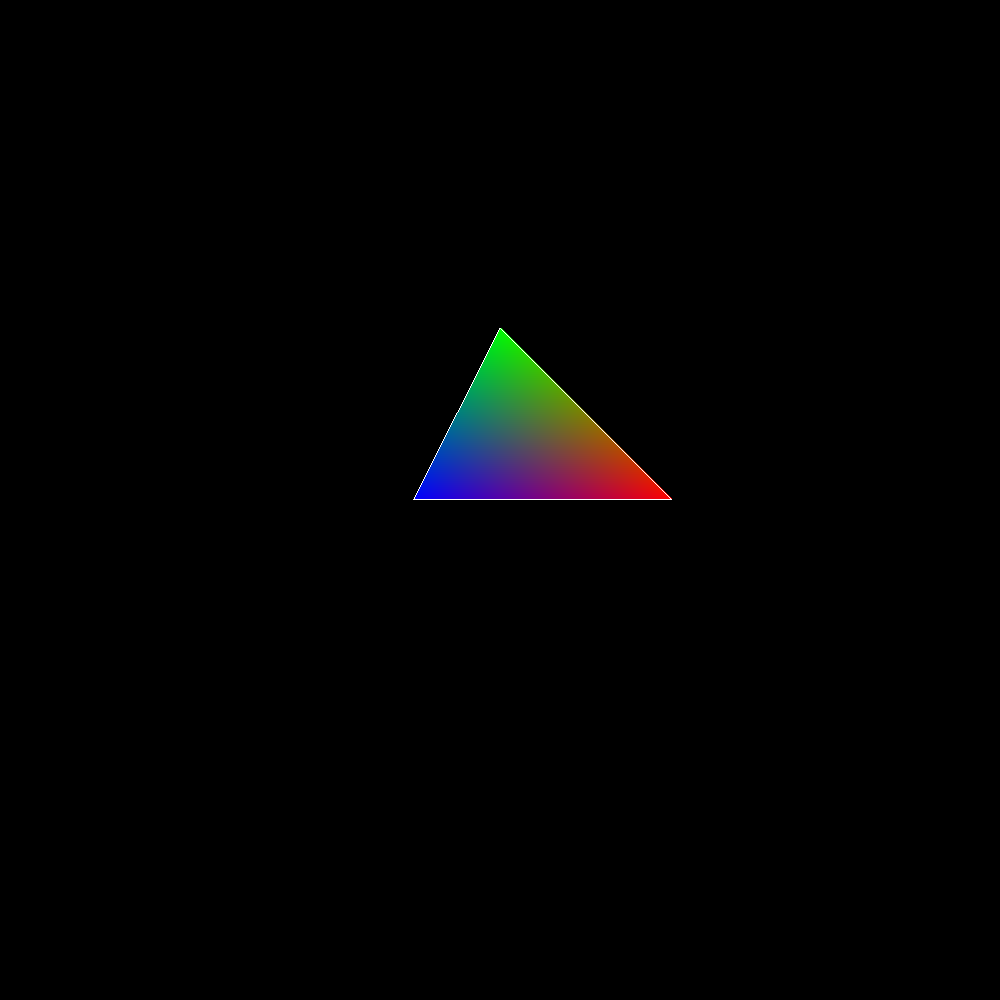
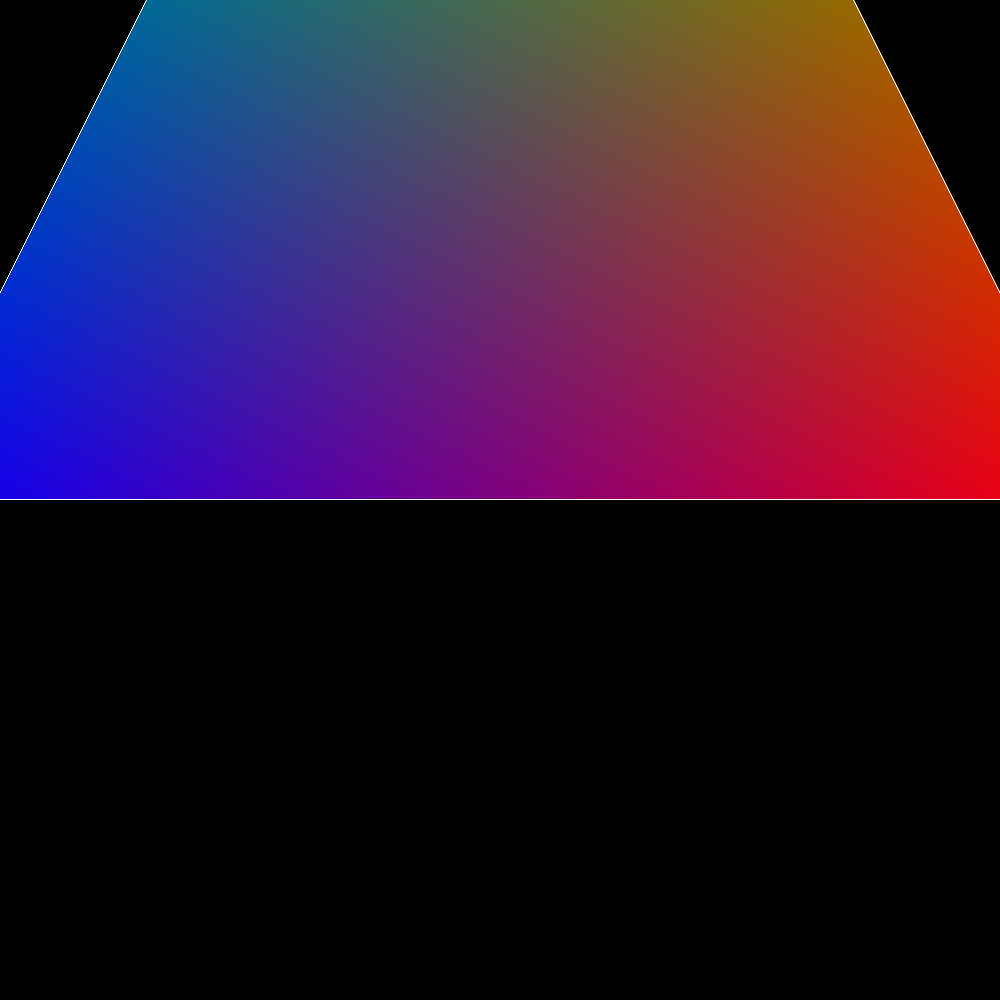
clip

diff --git a/src/render.rs b/src/render.rs
@@ -4,6 +4,8 @@ use crate::camera::{Camera, CameraProjection};
 use crate::color::Color;
 use crate::math::{Mat4, Vec2, Vec3, Vec4};
 use crate::mesh::{Mesh, Vertex};
+use crate::primitives::Frustum;
+use crate::transform;
 
 #[derive(Default)]
 pub struct Renderer {
@@ -21,7 +23,7 @@ impl Renderer {
     pub fn with_camera(mut self, camera: Camera) -> Self {
         self.frame_buffer = vec![0; camera.viewport.size() as usize * 3];
         self.depth_buffer = vec![0.; camera.viewport.size() as usize];
-        self.w_buffer = vec![1.; 3];
+        self.w_buffer = vec![1. / 3.; 3];
         self.camera = camera;
         self
     }
@@ -95,16 +97,6 @@ impl Renderer {
         None
     }
 
-    pub fn draw_mesh(&mut self, mesh: &mut Mesh) {
-        let model_matrix = mesh.transform.compute_matrix();
-        for i in 0..mesh.vertices.len() / 3 {
-            let triangle = &mut mesh.vertices[i * 3..(i * 3) + 3];
-
-            // mvp
-            self.draw_triangle(triangle, model_matrix);
-        }
-    }
-
     pub fn draw_triangle(&mut self, triangle: &mut [Vertex], model_matrix: Mat4) {
         // 视图变换
         let view_matrix = self.camera.get_view_matrix();
@@ -126,6 +118,12 @@ impl Renderer {
 
         // 投影矩阵 从视图坐标系 -> 齐次坐标系
         apply_matrix(triangle, projection_matrix);
+
+        let frustum = Frustum::from_view_projection(&projection_matrix);
+        // 齐次裁剪，这里没有视窗裁剪，三角形中有一个顶点不在视锥里面直接抛弃掉,这里不是太严谨
+        if !self.homogeneous_clip(triangle) {
+            return;
+        }
 
         // 保留齐次坐标系下面的w值，后面需要透视矫正
         self.w_buffer = triangle.iter().map(|v| v.position.w).collect::<Vec<f32>>();
@@ -172,14 +170,13 @@ impl Renderer {
             .map(|x| x.position.y as usize)
             .max()
             .unwrap();
+        println!(
+            "{:?}",
+            triangle.iter().map(|x| x.position).collect::<Vec<Vec4>>()
+        );
         for x in x_min..x_max {
+            println!("");
             for y in y_min..y_max {
-                let a =barycentric_2d(
-                    (x as f32, y as f32).into(),
-                    triangle[0].position.xy(),
-                    triangle[1].position.xy(),
-                    triangle[2].position.xy(),
-                );
                 //经过透视矫正后的重心坐标
                 let p_barycenter = perspective_correct(
                     barycentric_2d(
@@ -197,8 +194,13 @@ impl Renderer {
                     let z_interpolation = triangle[0].position.z * p_barycenter.x
                         + triangle[1].position.z * p_barycenter.y
                         + triangle[2].position.z * p_barycenter.z;
-                    if z_interpolation
-                        < self.depth_buffer[y * self.camera.viewport.physical_size.y as usize + x]
+
+                    // z值越大越远
+                    if y < self.camera.viewport.physical_size.y as usize
+                        && x < self.camera.viewport.physical_size.x as usize
+                        && z_interpolation
+                            < self.depth_buffer
+                                [y * self.camera.viewport.physical_size.y as usize + x]
                     {
                         // 颜色插值
                         let pixel_color = triangle[0].color.unwrap_or(Color::WHITE)
@@ -215,6 +217,16 @@ impl Renderer {
         self.draw_wireframe(triangle);
         #[cfg(target_featur = "info")]
         println!("rasterization:{},{},{},{}", x_min, y_min, x_max, y_max);
+    }
+
+    pub fn homogeneous_clip(&self, triangle: &[Vertex]) -> bool {
+        if triangle.iter().any(|v| {
+            v.position.w > -self.camera.projectiton.near
+                || v.position.w < -self.camera.projectiton.far
+        }) {
+            return false;
+        }
+        return true;
     }
 }
 
@@ -352,3 +364,5 @@ pub fn perspective_correct((alpha, beta, gamma): (f32, f32, f32), w: &Vec<f32>) 
     let normalizer = 1.0 / (w0 + w1 + w2);
     [w0 * normalizer, w1 * normalizer, w2 * normalizer].into()
 }
+
+// 齐次坐标裁剪 视锥裁剪

diff --git a/src/loader.rs b/src/loader.rs
@@ -1,7 +1,10 @@
+use std::collections::HashMap;
+
 use crate::{
     color::Color,
     math::{Vec3, Vec4},
     mesh::{Mesh, Vertex},
+    texture::{Sampler, Texture},
 };
 use gltf::{buffer::Data, Document};
 
@@ -71,11 +74,15 @@ use gltf::{buffer::Data, Document};
 //     image::save_buffer("image.png", &buffer, WIDTH, HEIGHT, image::ColorType::Rgb8).unwrap();
 // }
 
-pub fn load_gltf(path: &str) -> Vec<Mesh> {
+#[derive(Debug, Default)]
+pub struct TextureStorage {
+    pub texture_id_map: HashMap<usize, Texture>,
+}
+pub fn load_gltf(path: &str) -> (Vec<Mesh>, TextureStorage) {
     let (document, buffers, images) = gltf::import(path).unwrap();
 
+    // 加载mesh
     let mut meshs = Vec::new();
-    // let mut meshes = Vec::new();
     for mesh in document.meshes() {
         for gltf_primitive in mesh.primitives() {
             let mut mesh = Mesh::default();
@@ -106,8 +113,8 @@ pub fn load_gltf(path: &str) -> Vec<Mesh> {
                 }
             }
             let Some(indices) =  reader.read_indices() else {
-              continue;
-             };
+                continue;
+            };
             let indices = indices.into_u32();
             for index in indices {
                 let vertex = Vertex {
@@ -126,5 +133,36 @@ pub fn load_gltf(path: &str) -> Vec<Mesh> {
         #[cfg(feature = "info")]
         println!("positions:{:?}", res);
     }
-    return meshs;
+
+    // 纹理加载
+    let mut textures = Vec::new();
+    for texture in document.textures() {
+        let source = texture.source();
+        let sampler = texture.sampler();
+        let image = images.get(source.index()).unwrap();
+
+        let texture = Texture {
+            id: texture.index(),
+            width: image.width,
+            height: image.height,
+            format: image.format,
+            data: image.pixels.clone(),
+            sampler: Sampler {
+                mag_filter: sampler.mag_filter(),
+                min_filter: sampler.min_filter(),
+                wrap_s: sampler.wrap_s(),
+                wrap_t: sampler.wrap_t(),
+            },
+        };
+        textures.push(texture);
+    }
+    (
+        meshs,
+        TextureStorage {
+            texture_id_map: textures
+                .into_iter()
+                .map(|textrue| (textrue.id, textrue))
+                .collect(),
+        },
+    )
 }

diff --git a/src/main.rs b/src/main.rs
@@ -4,7 +4,9 @@ mod loader;
 mod material;
 mod math;
 mod mesh;
+mod primitives;
 mod render;
+mod texture;
 mod transform;
 
 #[cfg(test)]
@@ -59,7 +61,7 @@ mod tests {
     #[test]
     fn test_mesh() {
         let mut renderer = create_render();
-        let meshs = load_gltf("./assets/sphere/sphere.gltf");
+        let (meshs, textures) = load_gltf("./assets/sphere/sphere.gltf");
         // let meshs = load_gltf("./assets/cube/cube.gltf");
         // let meshs = load_gltf("./assets/monkey/monkey.gltf");
 
@@ -68,7 +70,13 @@ mod tests {
             Transform::from_xyz(0., 0., 4.).looking_at([0., 0., 0.].into(), Vec3::Y);
 
         for mut mesh in meshs {
-            renderer.draw_mesh(&mut mesh);
+            let model_matrix = mesh.transform.compute_matrix();
+            for i in 0..mesh.vertices.len() / 3 {
+                let triangle = &mut mesh.vertices[i * 3..(i * 3) + 3];
+
+                // mvp
+                renderer.draw_triangle(triangle, model_matrix);
+            }
         }
         image::save_buffer(
             "image_mesh.png",
@@ -146,17 +154,17 @@ mod tests {
         let mut renderer = create_render();
         let mut triangle = [
             Vertex {
-                position: Vec4::new(100., 0., -400., 1.),
+                position: Vec4::new(50., 0., 200., 1.),
                 color: Some(Color::RED),
                 ..Default::default()
             },
             Vertex {
-                position: Vec4::new(0., 100., -400., 1.),
+                position: Vec4::new(0., 100., 200., 1.),
                 color: Some(Color::GREEN),
                 ..Default::default()
             },
             Vertex {
-                position: Vec4::new(-50., 0., -400., 1.),
+                position: Vec4::new(-50., 0., 200., 1.),
                 color: Some(Color::BLUE),
                 ..Default::default()
             },

diff --git a/src/texture.rs b/src/texture.rs
@@ -1,0 +1,62 @@
+use std::collections::HashMap;
+
+use gltf::{
+    image::Format,
+    texture::{MagFilter, MinFilter, WrappingMode},
+};
+
+use crate::{color::Color, math::Vec2};
+
+#[derive(Clone, Debug)]
+pub struct Sampler {
+    pub mag_filter: Option<MagFilter>,
+    pub min_filter: Option<MinFilter>,
+    pub wrap_s: WrappingMode,
+    pub wrap_t: WrappingMode,
+}
+
+#[derive(Debug)]
+pub struct Texture {
+    pub id: usize,
+    pub width: u32,
+    pub height: u32,
+    pub format: Format,
+    pub data: Vec<u8>,
+    pub sampler: Sampler,
+}
+impl Texture {
+    pub fn sample(&self, mut texcoord: Vec2) -> Color {
+        if self.sampler.wrap_s != WrappingMode::Repeat
+            || self.sampler.wrap_t != WrappingMode::Repeat
+        {
+            panic!("Unsupported texture wrap mode: {:?}", self.sampler.wrap_s)
+        }
+        if texcoord.x > 1.0 {
+            texcoord.x -= texcoord.x.floor();
+        }
+        if texcoord.y > 1.0 {
+            texcoord.y -= texcoord.y.floor();
+        }
+        let x = (texcoord.x * (self.width - 1) as f32) as usize;
+        let y = (texcoord.y * (self.height - 1) as f32) as usize;
+
+        // rgb 和 srgb
+        let index = if self.format == Format::R8G8B8 {
+            (y * self.width as usize + x) * 3
+        } else if self.format == Format::R8G8B8A8 {
+            (y * self.width as usize + x) * 4
+        } else {
+            panic!("Unsupported texture format: {:?}", self.format);
+        };
+        Color::new(
+            self.data[index] as f32 / 255.,
+            self.data[index + 1] as f32 / 255.,
+            self.data[index + 2] as f32 / 255.,
+        )
+    }
+}
+
+#[derive(Debug, Default)]
+pub struct TextureStorage {
+    pub texture_id_map: HashMap<usize, Texture>,
+}

diff --git a/src/primitives.rs b/src/primitives.rs
@@ -86,48 +86,4 @@ impl Frustum {
         Self { half_spaces }
     }
 
-    // Checks if a sphere intersects the frustum.
-    // #[inline]
-    // pub fn intersects_sphere(&self, sphere: &Sphere, intersect_far: bool) -> bool {
-    //     let sphere_center = sphere.center.extend(1.0);
-    //     let max = if intersect_far { 6 } else { 5 };
-    //     for half_space in &self.half_spaces[..max] {
-    //         if half_space.normal_d().dot(sphere_center) + sphere.radius <= 0.0 {
-    //             return false;
-    //         }
-    //     }
-    //     true
-    // }
-
-    // Checks if an Oriented Bounding Box (obb) intersects the frustum.
-    // #[inline]
-    // pub fn intersects_obb(
-    //     &self,
-    //     aabb: &Aabb,
-    //     model_to_world: &Mat4,
-    //     intersect_near: bool,
-    //     intersect_far: bool,
-    // ) -> bool {
-    //     let aabb_center_world = model_to_world.transform_point3a(aabb.center).extend(1.0);
-    //     let axes = [
-    //         Vec3A::from(model_to_world.x_axis),
-    //         Vec3A::from(model_to_world.y_axis),
-    //         Vec3A::from(model_to_world.z_axis),
-    //     ];
-
-    //     for (idx, half_space) in self.half_spaces.into_iter().enumerate() {
-    //         if idx == 4 && !intersect_near {
-    //             continue;
-    //         }
-    //         if idx == 5 && !intersect_far {
-    //             continue;
-    //         }
-    //         let p_normal = half_space.normal();
-    //         let relative_radius = aabb.relative_radius(&p_normal, &axes);
-    //         if half_space.normal_d().dot(aabb_center_world) + relative_radius <= 0.0 {
-    //             return false;
-    //         }
-    //     }
-    //     true
-    // }
 }
